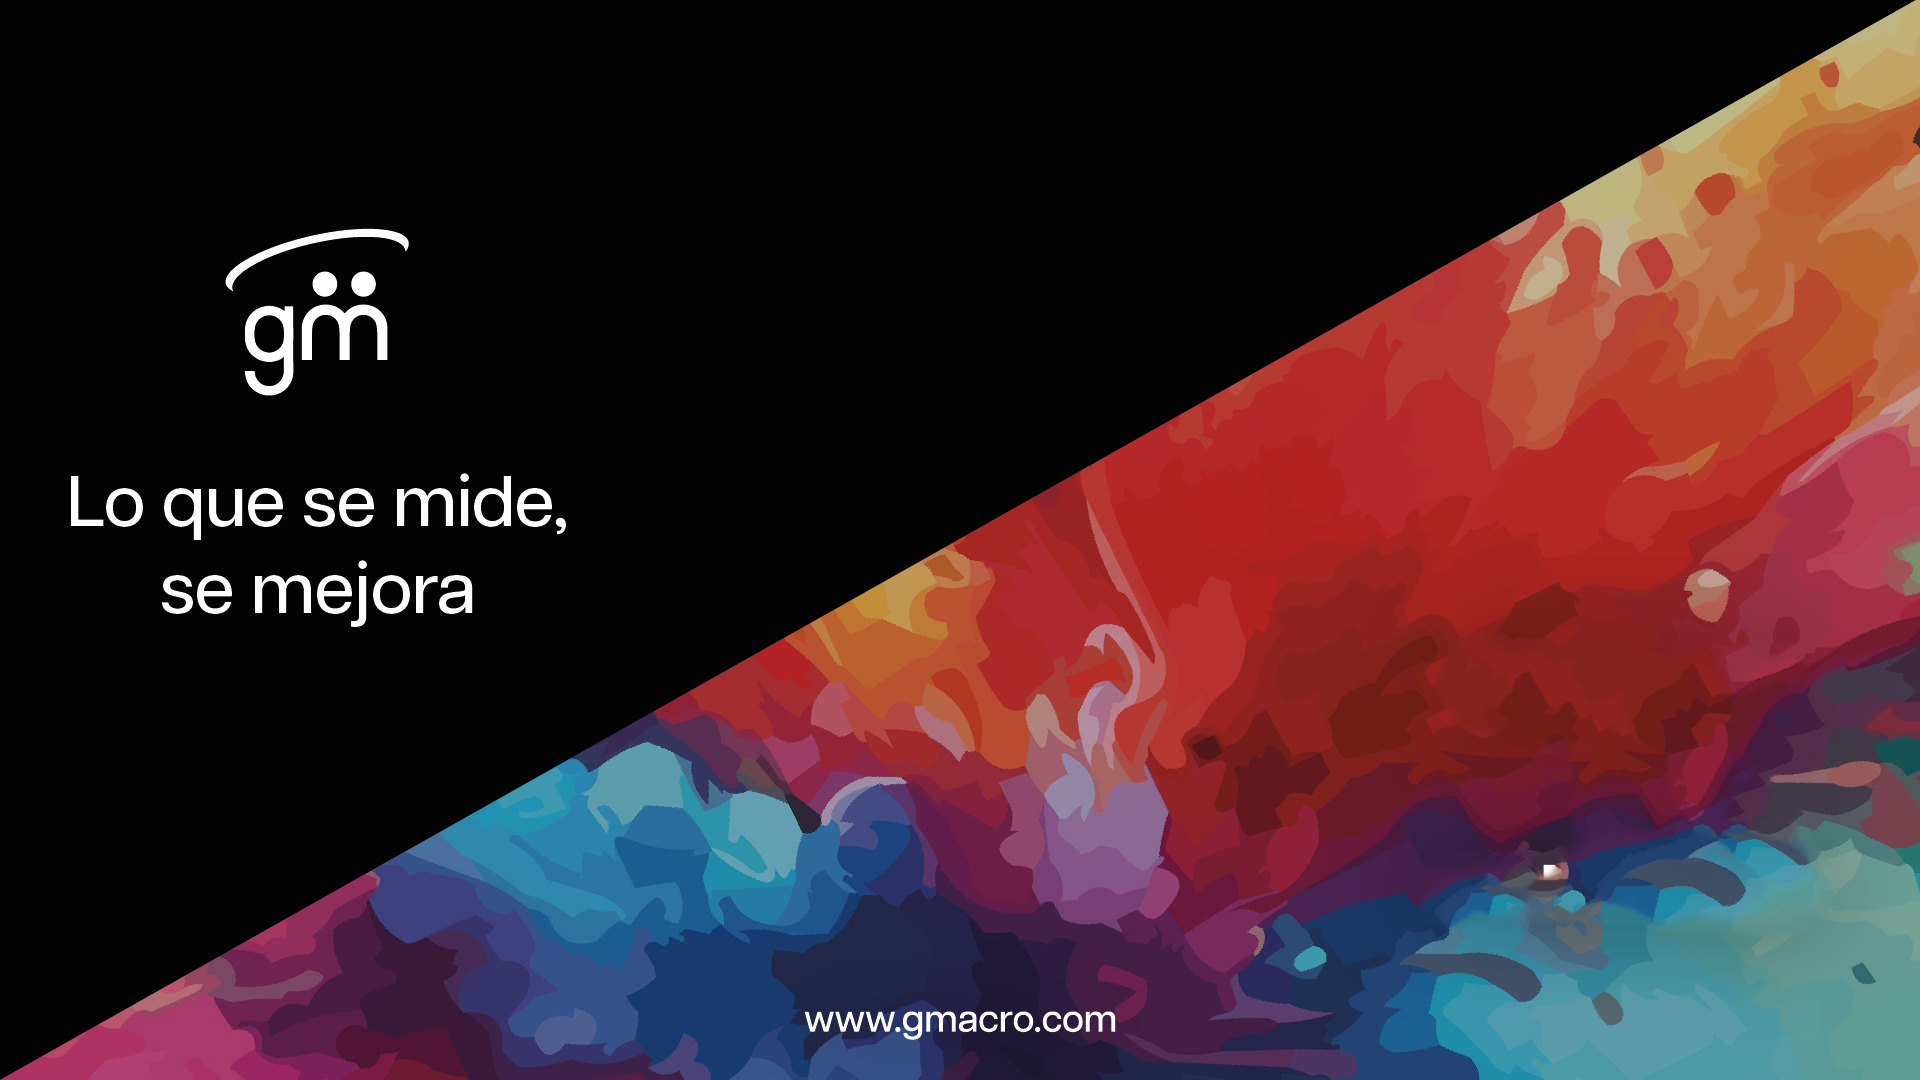
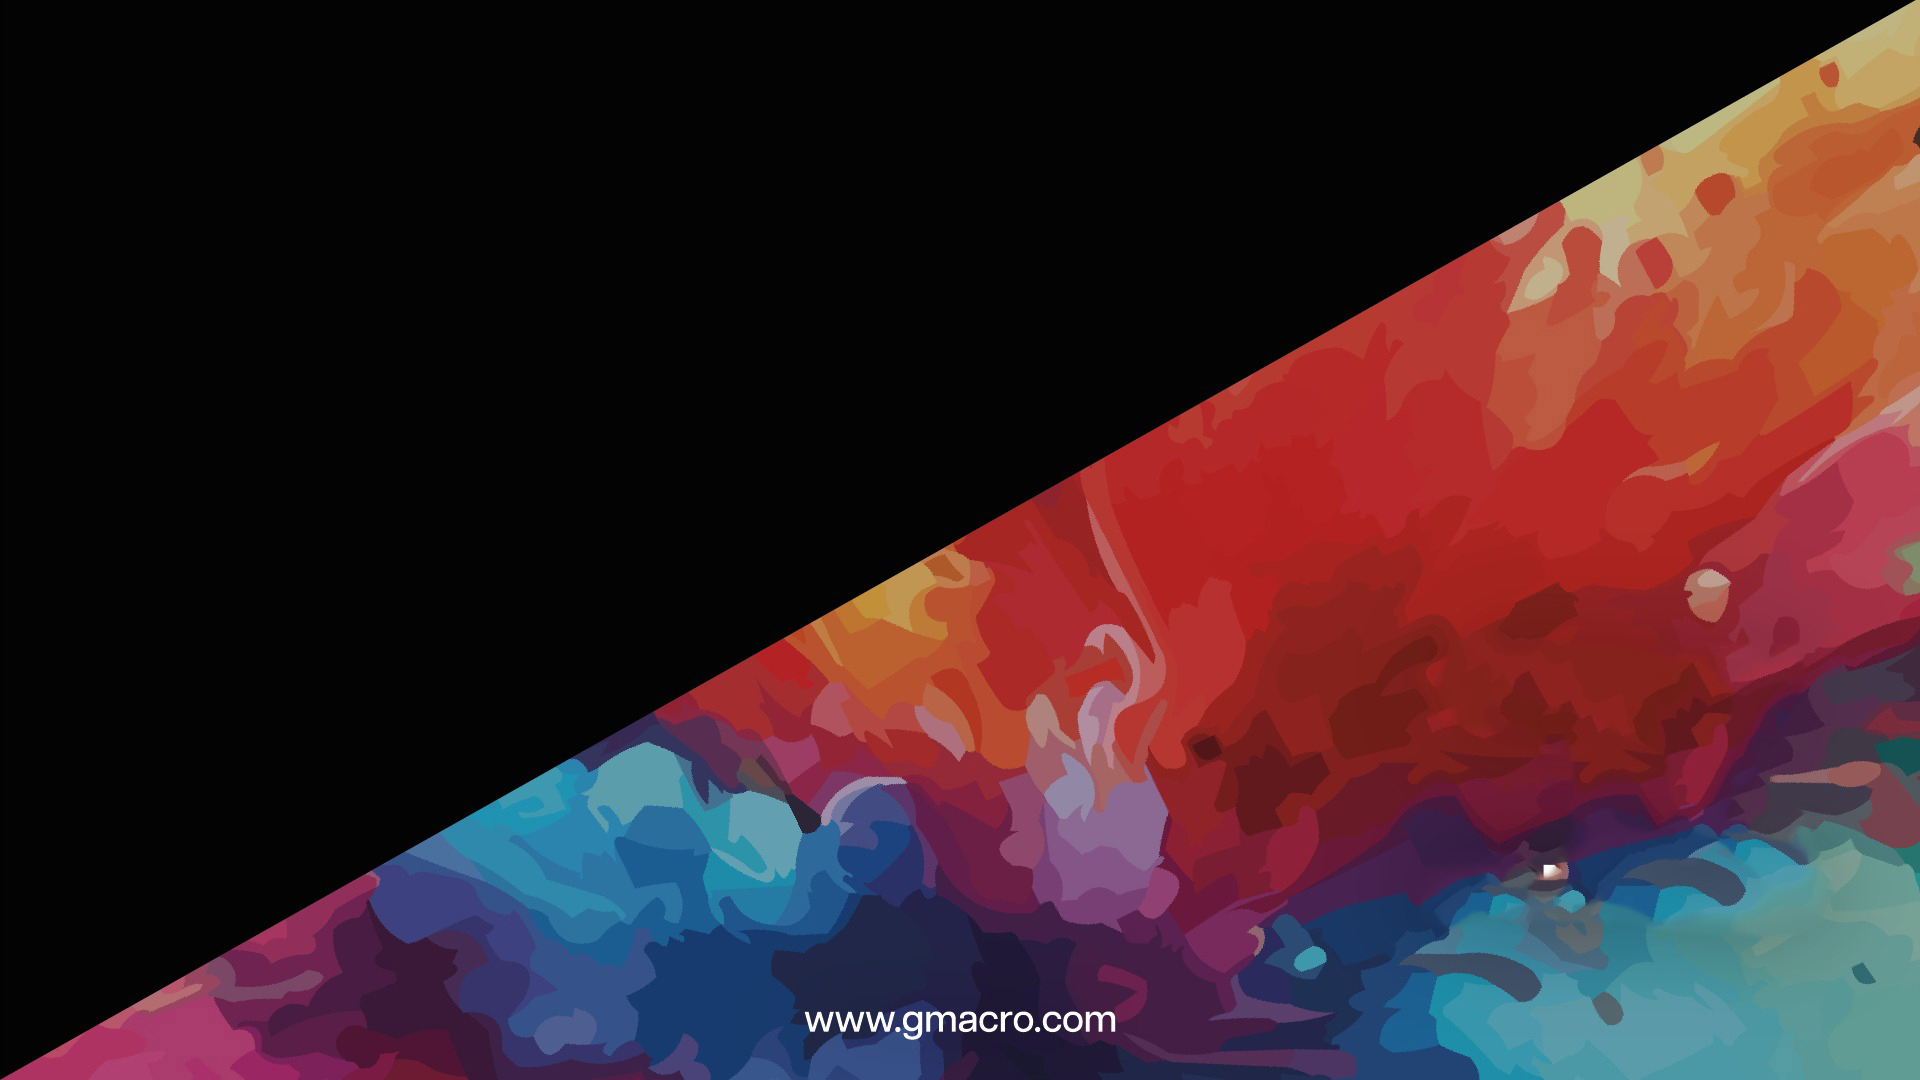
colocar resumen

diff --git a/public/styles/styles.css b/public/styles/styles.css
@@ -1,3 +1,6 @@
+/* ==========================================================================
+   1. ESTILOS GENERALES Y BASE
+   ========================================================================== */
 html, body {
   height: 100%;
   margin: 0;
@@ -17,6 +20,57 @@ body {
   background-size: cover;
 }
 
+/* ==========================================================================
+   2. CONTENEDOR PRINCIPAL 
+   ========================================================================== */
+.login-container {
+  display: grid;
+  grid-template-columns: minmax(0, 1fr) minmax(0, 1fr) minmax(0, 1fr); 
+  align-items: center;         
+  justify-items: center;       
+  width: 100%;
+  height: 100vh;
+  padding: 0 40px;
+  gap: 20px; /* espacio de seguridad entre las columnas */
+  box-sizing: border-box;
+}
+
+/* --- Columna Izquierda: Logo Macro --- */
+.brand-logo-aside {
+  display: flex;
+  flex-direction: column;
+  align-items: center;
+  justify-content: center;
+  width: 100%;
+}
+
+.brand-logo-aside img {
+  width: 100%;
+  max-width: 340px; /* Tamaño máximo en pantallas grandes */
+  height: auto;
+  display: block;
+}
+
+/* --- Columna Derecha: Logo AdnScan --- */
+.brand-logo-right {
+  display: flex;
+  flex-direction: column;
+  align-items: center;
+  justify-content: center;
+  width: 100%;
+}
+
+.brand-logo-right img {
+  width: 100%;
+  max-width: 220px; 
+  height: auto;
+  display: block;
+  border-radius: 12px;
+}
+
+/* ==========================================================================
+   3. PANEL DE INICIO DE SESIÓN
+   ========================================================================== */
 .login-panel {
   background: #f7f7f7;
   border-radius: 16px;
@@ -103,4 +157,31 @@ button[type="submit"]:focus {
   text-align: center;
   margin-top: 10px;
   display: none;
+}
+
+/* ==========================================================================
+   4. DISEÑO RESPONSIVO 
+   ========================================================================== */
+@media (max-width: 1100px) { 
+  .login-container {
+    grid-template-columns: 1fr; 
+    grid-template-rows: 1fr 1fr 1fr; 
+    height: 100vh; 
+    min-height: 600px; 
+    gap: 15px; 
+    padding: 20px;
+  }
+
+  .login-panel {
+    width: 80%; 
+    max-width: 340px; 
+  }
+  
+  .brand-logo-aside img {
+    max-width: 200px; 
+  }
+
+  .brand-logo-right img {
+    max-width: 160px; 
+  }
 }

diff --git a/public/index.html b/public/index.html
@@ -10,24 +10,27 @@
   <link rel="stylesheet" href="styles/styles.css" />
 </head>
 <body>
+<main class="login-container">
+  <div class="brand-logo-aside">
+    <img src="images/logoblanco.png" alt="Logo Blanco GM Macro" />
+  </div>
+
   <section class="login-panel" aria-label="Formulario de inicio de sesión">
     <img src="images/GM_logo.png" alt="Logo GM Macro" />
     <form id="loginForm" method="POST" novalidate>
       <div class="input-icon">
         <span class="material-icons lock">person</span>
-        <input
-          type="text"
-          id="cedula"
-          name="cedula"
-          required
-          autocomplete="off"
-          placeholder="DNI"
-        />
+        <input type="text" id="cedula" name="cedula" required autocomplete="off" placeholder="DNI" />
       </div>
       <button type="submit">Ingresar</button>
     </form>
     <div id="mensaje"></div>
   </section>
+
+  <div class="brand-logo-right">
+    <img src="images/AdnScan-Logo.jpeg" alt="Logo AdnScan">
+    </div>
+</main>
 
   <script>
     const form = document.getElementById('loginForm');
